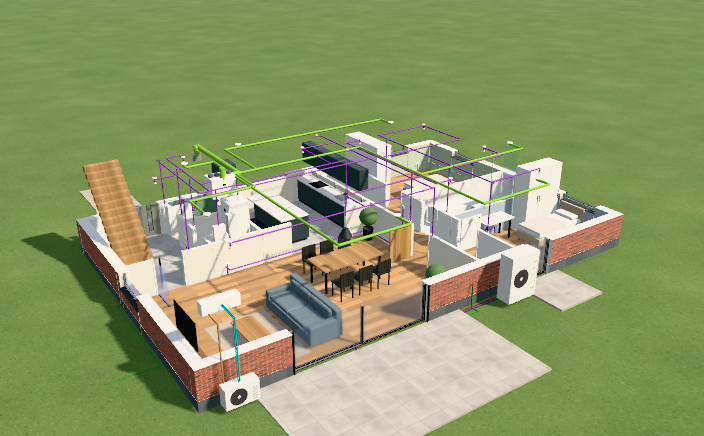
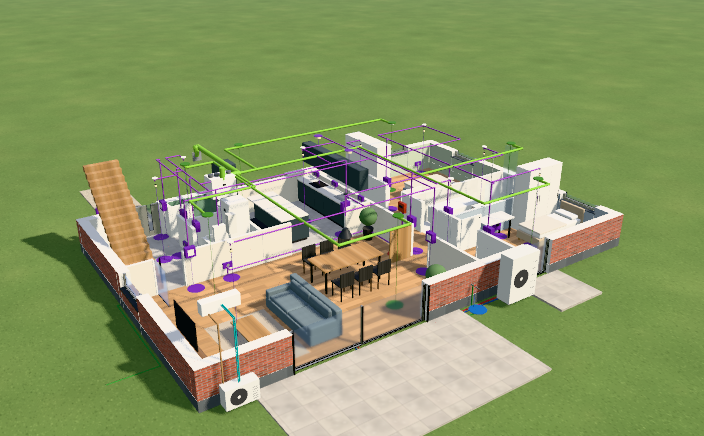
Bouw: techniek zichtbaar in de 3D, zoomen evenredig met de beweging
Opmerking van Jonas: toegevoegde techniek was niet zichtbaar in de 3D en het zoomen was te gevoelig.

Techniek in de 3D:
- Kleine toestellen worden 30 cm (was 20) en krijgen een merkteken: een schijf op de vloer
  en een dun staafje naar het toestel, in de kleur van hun vak. Een tik erop kiest het toestel.
- Uitgezet toont alleen de verdieping waarop je werkt, met een krap kader. Alle verdiepingen
  samen zweefden als losse kaders boven elkaar.
- In de woning toont vanzelf lage muren zonder dak. Van buiten zag je eerst niets.
- Met de techniek uit heet de knop Techniek (n), met het aantal toestellen en leidingen.

Zoomen: het wiel zoomt nu evenredig met de beweging (wielFactor), in de 3D en in de tekening.
Vroeger zoomde de 3D 10 % per gebeurtenis, waardoor een trackpad of knijpen wegschoot.
Knijpen op de trackpad in Safari (gesturechange) wordt nu opgevangen.

Beelden bouw-techniek en bouw-techniek-scherm-3d bewust vernieuwd.

Claude-Session: https://claude.ai/code/session_01PczewFp9M8BS44vqTSpk6u

diff --git a/packages/bouw-web/src/techniek-ui.ts b/packages/bouw-web/src/techniek-ui.ts
@@ -103,11 +103,20 @@ export function techniekTekenOpties(): { techniek?: TechniekVak[] } {
   return aan ? { techniek: ALLE_VAKKEN.filter((v) => zichtbaar.has(v)) } : {};
 }
 
-/** Opties voor `plattegrond3D`: de installaties, gewoon of uitgezet (alleen als de techniek aan staat). */
-export function techniek3DOpties(niveau: number | undefined): { techniek?: { vakken: TechniekVak[]; weergave: 'gewoon' | 'uitgezet'; niveau?: number } } {
+/**
+ * Opties voor `plattegrond3D`: de installaties, gewoon of uitgezet (alleen als de techniek aan staat). 16/11: uitgezet
+ * altijd alleen de verdieping waarop je werkt (alle verdiepingen samen zweefden als losse kaders boven elkaar), en in
+ * beide weergaven de kleine toestellen groter en met een merkteken op de vloer (`opvallend`): anders was een
+ * stopcontact op een hele verdieping een stipje. In de woning toont de 3D dan ook lage muren zonder dak (zie
+ * `techniekInWoning`).
+ */
+export function techniek3DOpties(niveau: number): { techniek?: { vakken: TechniekVak[]; weergave: 'gewoon' | 'uitgezet'; niveau?: number; opvallend: boolean } } {
   if (!aan) return {};
-  return { techniek: { vakken: ALLE_VAKKEN.filter((v) => zichtbaar.has(v)), weergave: uitgezet ? 'uitgezet' : 'gewoon', ...(uitgezet && niveau !== undefined ? { niveau } : {}) } };
+  return { techniek: { vakken: ALLE_VAKKEN.filter((v) => zichtbaar.has(v)), weergave: uitgezet ? 'uitgezet' : 'gewoon', opvallend: true, ...(uitgezet ? { niveau } : {}) } };
 }
+
+/** De techniek in de woning (niet uitgezet): de 3D toont dan de verdieping waarop je werkt met lage muren en zonder dak. */
+export const techniekInWoning = () => aan && !uitgezet;
 
 // ---------- hulpjes ----------
 
@@ -798,6 +807,9 @@ export function toonBalk3D() {
   if (tab3D) {
     tab3D.hidden = !aan && !heeftTechniek();
     tab3D.setAttribute('aria-pressed', String(aan));
+    // Met de techniek uit: hoeveel er is, zodat je ziet dat er iets te zien is (in Afgewerkt staat de techniek niet).
+    const plan = toestand().plan, n = (plan.toestellen?.length ?? 0) + (plan.leidingen?.length ?? 0);
+    tab3D.textContent = !aan && n ? `Techniek (${n})` : 'Techniek';
     // Afgewerkt en Constructie: niet ingedrukt terwijl de techniek aan staat; daarna weer zoals de constructie staat.
     const nu = aan ? 'techniek' : constructieAan() ? 'constructie' : 'afgewerkt';
     for (const b of document.querySelectorAll<HTMLButtonElement>('[data-3d-weergave]')) b.setAttribute('aria-pressed', String(b.dataset['3dWeergave'] === nu));
@@ -808,7 +820,7 @@ export function toonBalk3D() {
   balk3D.hidden = !aan;
   if (!aan) return;
   const weergave = el('div', { class: 'tabs', role: 'group', 'aria-label': 'Techniek in de 3D' });
-  for (const [w, label, uitleg] of [['woning', 'In de woning', 'De woning zoals ze is, met de installaties op hun plaats (in de muren en vloeren verstopt; zet Muren laag aan om binnen te kijken)'], ['uitgezet', 'Uitgezet', 'De woning als lage wanden en lijnen, zodat je de installaties ziet']] as const) {
+  for (const [w, label, uitleg] of [['woning', 'In de woning', 'De verdieping waarop je werkt, met lage muren en zonder dak, en de installaties op hun plaats (een leiding in de muur of de vloer zit erin verstopt)'], ['uitgezet', 'Uitgezet', 'De woning als lage wanden en lijnen, zodat je de installaties ziet']] as const) {
     const b = el('button', { type: 'button', 'data-techniek-3d': w, 'aria-pressed': String((w === 'uitgezet') === uitgezet), title: uitleg }, label);
     b.addEventListener('click', () => { uitgezet = w === 'uitgezet'; toonBalk3D(); omg?.drieD(); });
     weergave.append(b);

diff --git a/packages/bouw-web/src/plattegrond-ui.ts b/packages/bouw-web/src/plattegrond-ui.ts
@@ -76,7 +76,7 @@ import { gevelCatalogus } from '../../core/voorbeelden/inrichting.js';
 import { constructieAan, constructieScene, opbouwKeuze, startConstructie, toonOpbouwVanDing } from './constructie-ui.js';
 import { startDoorsnede, toonDoorsnede } from './doorsnede-ui.js';
 import {
-  draaiToestel, maakZichtbaar, startTechniek, techniek3DOpties, techniekAan, techniekHint, techniekMetRuimte, techniekNaTekenen, techniekPlan, techniekPointerDown,
+  draaiToestel, maakZichtbaar, startTechniek, techniek3DOpties, techniekAan, techniekHint, techniekInWoning, techniekMetRuimte, techniekNaTekenen, techniekPlan, techniekPointerDown,
   techniekPointerMove, techniekPointerUp, techniekSelecteren, techniekTekenOpties, techniekUitgezet, techniekVoorbeeld, toonBalk3D, toonTechniekEigenschappen,
   toonTechniekZonderKeuze, verschuifToestel, verwijderTechniek, zetTechniek, type TechniekSelectie,
 } from './techniek-ui.js';
@@ -403,20 +403,23 @@ function plan3D() {
     wachtend3D = false;
     // Lichtinval: de zon uit de gekozen richting, en wat verborgen is werpt nog schaduw.
     viewer?.zon?.(zonVoorKijker());
+    // Techniek in de woning: de verdieping waarop je werkt met lage muren en zonder dak, anders zie je niets (16/11).
+    const tw = techniekInWoning(), muurLaag = laag || tw;
     const scene = plattegrond3D(toestand().plan, cat, {
-      laag: laag ? 110 : undefined,
+      laag: muurLaag ? 110 : undefined,
       meubels: toonMeubels,
-      dak: toonDakIn3D,
+      dak: toonDakIn3D && !tw,
       lichtinval: lichtinvalAan(),
       // Terras en pad horen bij de woning (gegevens); lucht, gras en horizon tekent de kijker (omgeving 'buiten').
       aanleg: true,
       gevelkoppen: true,
       // Elk blok zegt bij welk ding het hoort: tik op het dak, een raam of een gevel (zie ding-ui.ts).
       dingen: true,
-      totNiveau: alleNiveaus && !laag ? undefined : niveau,
+      totNiveau: alleNiveaus && !muurLaag ? undefined : niveau,
       inhoud: openingInhoud,
-      // Techniek (ronde 10b): de installaties, in de woning of uitgezet (alleen als de techniek aan staat).
-      ...techniek3DOpties(alleNiveaus && !laag ? undefined : niveau),
+      // Techniek (ronde 10b): de installaties, in de woning of uitgezet (alleen als de techniek aan staat); uitgezet
+      // alleen de verdieping waarop je werkt.
+      ...techniek3DOpties(niveau),
     });
     // Constructie (ronde 6): wanden, vloeren en dak als skelet, met het kader van de afgewerkte woning (de camera springt niet).
     const constructie = constructieAan();
@@ -428,7 +431,8 @@ function plan3D() {
       maatlijnen: [...gebouwMaatlijnen(scene, { hoogtes: !laag }), ...(!constructie && gekozenDing?.startsWith('opening:') ? raamMaatlijnen(scene.blokken, { ding: gekozenDing }) : [])],
     } : getoond;
     // Na de snelstart een ruimer kader: de camera staat verder, zodat de hele woning met lucht erboven in beeld komt.
-    viewer?.toon(ruimKader ? ruimKaderVan(metMaten) : metMaten);
+    // Met de techniek aan het krappe kader: de toestellen zo groot mogelijk in beeld.
+    viewer?.toon(ruimKader && !techniekAan() ? ruimKaderVan(metMaten) : metMaten);
     // Het beeld in het overzicht (Het ontwerp) is dat van de afgewerkte woning, niet van het skelet.
     beeldActueel = !!viewer && !constructie && !techniekAan();
     if (volgendStandpunt) { viewer?.standpunt(volgendStandpunt); volgendStandpunt = undefined; }

diff --git a/packages/core/src/techniek.ts b/packages/core/src/techniek.ts
@@ -197,6 +197,11 @@ export interface TechniekWeergave {
   weergave?: 'gewoon' | 'uitgezet';
   /** Alleen deze verdieping (uitgezet): de andere verdiepingen vallen weg. */
   niveau?: number;
+  /**
+   * Kleine toestellen groter, in de kleur van hun vak en met een merkteken op de vloer (zie `toestelBlokken`). Standaard
+   * alleen in de uitgezette weergave; het scherm zet het ook aan in de woning (16/11: anders zie je geen stopcontact).
+   */
+  opvallend?: boolean;
 }
 
 // ---------- maten en hoogtes ----------
@@ -602,8 +607,18 @@ function zetOp(blokken: Blok[], graden: number, x: number, y: number, z: number)
   });
 }
 
-/** In de uitgezette weergave is een klein toestel (stopcontact, schakelaar, lichtpunt) minstens zo groot (cm), in de kleur van zijn vak. */
-export const KLEIN_TOESTEL = 20;
+/**
+ * In de uitgezette weergave is een klein toestel (stopcontact, schakelaar, lichtpunt) minstens zo groot (cm), in de kleur
+ * van zijn vak. 16/11: van 20 naar 30 cm; met 20 cm was een stopcontact op een hele verdieping een stipje.
+ */
+export const KLEIN_TOESTEL = 30;
+
+/**
+ * Het merkteken onder een klein toestel in de uitgezette weergave (cm): een schijf op de vloer in de kleur van zijn vak,
+ * met een dun staafje naar het toestel als dat hoger hangt. Zo vind je een stopcontact of een lichtpunt op een hele
+ * verdieping, ook van ver en van boven; een tik op het merkteken kiest het toestel.
+ */
+export const MERKTEKEN = { schijf: 50, dik: 1.2, staaf: 1.4, vanaf: 20 };
 
 /**
  * Een toestel als blokken in de wereld; `vloer` = hoogte van de vloer van zijn verdieping boven het maaiveld (cm). Met
@@ -621,7 +636,18 @@ export function toestelBlokken(t: Toestel, type: ToestelType, vloer: number, muu
   const [vx, vy] = voorRichting(t.draai), naarVoor = (m.d - echt.d) / 2;
   const groei = t.aan === 'plafond' ? echt.h - m.h : t.aan === 'vloer' || t.aan === 'buiten' ? 0 : (echt.h - m.h) / 2;
   const onder = (t.aan === 'dak' ? muurhoogte + t.hoogte : t.hoogte) + groei;
-  return zetOp(lokaal, t.draai, t.x + vx * naarVoor, vloer + onder, t.y + vy * naarVoor);
+  const blokken = zetOp(lokaal, t.draai, t.x + vx * naarVoor, vloer + onder, t.y + vy * naarVoor);
+  // Het merkteken (zie MERKTEKEN): alleen bij een vergroot toestel, niet op het dak. Een toestel aan de wand: de schijf
+  // ligt voor de wand, het staafje staat onder het midden van het toestel.
+  if (f > 1 && t.aan !== 'dak') {
+    const M = MERKTEKEN, kleurMerk = TECHNIEK_VAKKEN[type.vak].kleur;
+    const wand = t.aan === 'wand' ? M.schijf / 2 : 0;
+    const sx = t.x + vx * wand, sz = t.y + vy * wand, mx = t.x + vx * naarVoor, mz = t.y + vy * naarVoor;
+    blokken.push({ code: `${code}_merk_schijf`, soort: 'kunststof', vorm: 'cilinder', kleur: kleurMerk, x: fijn(sx - M.schijf / 2), y: r2(vloer + 1), z: fijn(sz - M.schijf / 2), b: M.schijf, h: M.dik, d: M.schijf });
+    const hoog = onder - 1 - M.dik;
+    if (hoog > M.vanaf) blokken.push({ code: `${code}_merk_staaf`, soort: 'kunststof', vorm: 'cilinder', kleur: kleurMerk, x: fijn(mx - M.staaf / 2), y: r2(vloer + 1 + M.dik), z: fijn(mz - M.staaf / 2), b: M.staaf, h: r2(hoog), d: M.staaf });
+  }
+  return blokken;
 }
 
 export interface TechniekBlokOpties extends VerloopOpties {

diff --git a/packages/core/test/techniek.test.ts b/packages/core/test/techniek.test.ts
@@ -2,7 +2,7 @@ import { describe, expect, it } from 'vitest';
 import {
   ALLE_VAKKEN, asVan, binnenVeelhoek, controleerPlan, leidingBlokken, leidingVerloop, maatTekst, maatVan, murenVan, niveauPlan, nieuwToestel, opAs, plattegrond3D, ruimteOp,
   telTechniek, tekenPlattegrond, toestelBlokken, toestelMaten, toestelVoetafdruk, toestelVorm, vloerHoogte, voorRichting, vormVanDeel,
-  zetOmtrek, TECHNIEK_VOORBEHOUD, type Blok, type Leiding, type Plattegrond, type Ruimte, type Toestel,
+  zetOmtrek, KLEIN_TOESTEL, MERKTEKEN, TECHNIEK_VOORBEHOUD, type Blok, type Leiding, type Plattegrond, type Ruimte, type Toestel,
 } from '../src/index.js';
 import { leidingLangsWanden, technischeOpstelling, tegenWand, vloerverwarmingLus } from '../src/techniekplaatsen.js';
 import { planCatalogus } from '../voorbeelden/inrichting.js';
@@ -324,15 +324,29 @@ describe('3D: toestellen en leidingen, per vak, gewoon en uitgezet', () => {
   });
   it('kleine toestellen zijn in de uitgezette weergave groter en in de kleur van hun vak; de achterkant blijft tegen de wand', () => {
     const s = plan.toestellen!.find((x) => x.type === 'stopcontact_dubbel')!, ty = tc.toestellen[s.type]!;
-    const gewoon = toestelBlokken(s, ty, 0, 270, 'x'), groot = toestelBlokken(s, ty, 0, 270, 'x', true);
+    const gewoon = toestelBlokken(s, ty, 0, 270, 'x'), alles = toestelBlokken(s, ty, 0, 270, 'x', true);
+    // Het toestel zelf (zonder het merkteken op de vloer).
+    const groot = alles.filter((b) => !b.code.includes('_merk_'));
     const breedte = (b: Blok[]) => Math.max(...b.map((x) => Math.max(x.b, x.d)));
     expect(breedte(gewoon)).toBe(15);
-    expect(breedte(groot)).toBeCloseTo(20, 1);
+    expect(breedte(groot)).toBeCloseTo(KLEIN_TOESTEL, 1);
+    expect(KLEIN_TOESTEL).toBe(30);
     expect(groot[0]!.kleur).toBe('#6a2fa0');
     // De achterkant (de plaat) raakt nog altijd het muurvlak.
     const [vx, vy] = voorRichting(s.draai);
     const achter = (b: Blok[]) => Math.min(...b.map((x) => (x.x + x.b / 2 - s.x) * vx + (x.z + x.d / 2 - s.y) * vy - (Math.abs(vx) > 0.5 ? x.b : x.d) / 2));
     expect(achter(groot)).toBeCloseTo(achter(gewoon), 1);
+    // Het merkteken (16/11): een schijf op de vloer voor de wand, en een staafje tot onder het toestel, in de kleur van het vak.
+    const schijf = alles.find((b) => b.code === 'x_merk_schijf')!, staaf = alles.find((b) => b.code === 'x_merk_staaf')!;
+    expect(schijf.vorm).toBe('cilinder');
+    expect(schijf.b).toBe(MERKTEKEN.schijf);
+    expect(schijf.y).toBe(1);
+    expect(schijf.kleur).toBe('#6a2fa0');
+    const midden = (b: Blok) => (b.x + b.b / 2 - s.x) * vx + (b.z + b.d / 2 - s.y) * vy;
+    expect(midden(schijf)).toBeCloseTo(MERKTEKEN.schijf / 2, 1);
+    expect(staaf.y + staaf.h).toBeCloseTo(Math.min(...groot.map((b) => b.y)), 1);
+    // Zonder vergroting geen merkteken.
+    expect(gewoon.some((b) => b.code.includes('_merk_'))).toBe(false);
   });
   it('aantikken: elk blok van de techniek zegt bij welk toestel of welke leiding het hoort', () => {
     const s = plattegrond3D(plan, cat, { techniek: {}, dingen: true });

diff --git a/packages/demo-web/src/zoom.ts b/packages/demo-web/src/zoom.ts
@@ -32,6 +32,22 @@ export interface ZoomOpties {
   wielZoomt?: () => boolean;
 }
 
+/**
+ * Hoeveel één wielgebeurtenis zoomt (> 1 = inzoomen), evenredig met de beweging. Een muiswiel geeft per klik een grote
+ * stap (±100 px), een trackpad tientallen kleine per seconde, en knijpen op een trackpad komt binnen als wiel met Ctrl en
+ * kleine stappen: met een vaste stap per gebeurtenis (vroeger 10 % in de 3D) schiet het beeld dan weg. Eén klik van het
+ * wiel zoomt ±14 %, knijpen volgt de vingers, en geen enkele gebeurtenis zoomt meer dan ±25 %. Gedeeld door de tekening
+ * (Zoom) en de 3D (drie-d.ts).
+ */
+export function wielFactor(e: Pick<WheelEvent, 'deltaY' | 'deltaMode' | 'ctrlKey'>): number {
+  // Regels of pagina's (Firefox, sommige muizen) naar pixels.
+  const px = e.deltaY * (e.deltaMode === 1 ? 33 : e.deltaMode === 2 ? 400 : 1);
+  // Knijpen: Ctrl met kleine stappen. Ctrl met een gewoon muiswiel (stappen van ±100) zoomt zoals het wiel zonder Ctrl.
+  const knijpen = e.ctrlKey && Math.abs(px) < 50;
+  const stap = knijpen ? 0.01 : 0.0015;
+  return Math.exp(-Math.max(-0.22, Math.min(0.22, px * stap)));
+}
+
 export class Zoom {
   private vak: Kader | undefined;
   private tijdelijk: Kader | undefined;
@@ -49,10 +65,22 @@ export class Zoom {
       e.preventDefault();
       // Horizontaal vegen op een trackpad verschuift; verticaal (of knijpen = ctrl) zoomt.
       if (Math.abs(e.deltaX) > Math.abs(e.deltaY) && !e.ctrlKey && !e.metaKey) { this.verschuifPx(-e.deltaX, 0); return; }
-      const stap = e.ctrlKey ? 0.01 : e.deltaMode === 1 ? 0.05 : e.deltaMode === 2 ? 0.5 : 0.0015;
-      const f = Math.min(2, Math.max(0.5, Math.exp(-e.deltaY * stap)));
-      this.zoomOp(f, e.clientX, e.clientY);
+      this.zoomOp(wielFactor(e), e.clientX, e.clientY);
     }, { passive: false });
+    // Safari op een Mac: knijpen op de trackpad komt als gebaar (gesturechange met `scale`), niet als wiel met Ctrl; zonder
+    // dit zoomt de hele pagina. Op een iPad loopt knijpen via de aanwijzers (this.knijp): dan niet dubbel zoomen.
+    let gebaarSchaal = 1;
+    const gebaar = (naam: string, f: (e: { scale?: number; clientX: number; clientY: number }) => void) => doel.addEventListener(naam, (ev) => {
+      ev.preventDefault();
+      if (!this.knijp) f(ev as unknown as { scale?: number; clientX: number; clientY: number });
+    });
+    gebaar('gesturestart', () => { gebaarSchaal = 1; });
+    gebaar('gesturechange', (e) => {
+      const s = e.scale ?? 1;
+      if (!(s > 0)) return;
+      this.zoomOp(s / gebaarSchaal, e.clientX, e.clientY);
+      gebaarSchaal = s;
+    });
     // Vangfase: knijpen en middelste muisknop gaan voor op de acties van de editor.
     doel.addEventListener('pointerdown', (ev) => {
       const e = ev as PointerEvent;

diff --git a/packages/demo-web/src/drie-d.ts b/packages/demo-web/src/drie-d.ts
@@ -7,7 +7,7 @@
 import type { Blok, Echt3DPlaatsing, Scene3D, Weefsel } from '../../core/src/index.js';
 import { smeltMee, zachteVorm, type ZachteVorm } from '../../core/src/zachtevorm.js';
 import { wandDoorsnede } from '../../core/src/kuip.js';
-import { wielHint } from './zoom.js';
+import { wielFactor, wielHint } from './zoom.js';
 import { HOOGTE_KLEUR, KAART_PX, WEEFSEL_CM, WEEFSELKAART, weefselCanvas, weefselKaarten } from './weefsel.js';
 import { bouwDecor, type DecorSpec } from './decor3d.js';
 
@@ -2865,9 +2865,26 @@ function maakViewer(houder: HTMLElement, opties: Opties3D, intern: { geenWebGPU:
       return;
     }
     ev.preventDefault();
-    afstand = Math.min(verst(), Math.max(120, afstand * (1 + Math.sign(ev.deltaY) * 0.1)));
+    // Evenredig met de beweging (zie wielFactor): een trackpad of knijpen geeft veel kleine stappen, een muiswiel één grote.
+    afstand = Math.min(verst(), Math.max(120, afstand / wielFactor(ev)));
     plaatsCamera();
   }, { passive: false });
+  // Safari op een Mac: knijpen op de trackpad komt als gebaar (gesturechange met `scale`), niet als wiel met Ctrl; zonder
+  // dit zoomt de hele pagina. Op een iPad komt knijpen ook als twee aanwijzers binnen (hierboven): dan niet dubbel zoomen.
+  let gebaarStart = 0;
+  const gebaar = (naam: string, f: (schaal: number) => void) => renderer.domElement.addEventListener(naam, (ev: Event) => {
+    ev.preventDefault();
+    if (bezigMetFoto || aanwijzers.size > 1) return;
+    f((ev as unknown as { scale?: number }).scale ?? 1);
+  });
+  gebaar('gesturestart', () => { gebaarStart = afstand; });
+  gebaar('gesturechange', (schaal) => {
+    if (!gebaarStart || !(schaal > 0)) return;
+    afstand = Math.min(verst(), Math.max(120, gebaarStart / schaal));
+    pauzeerDraaien();
+    plaatsCamera();
+  });
+  gebaar('gestureend', () => { gebaarStart = 0; });
 
   // Nabewerking (kwaliteit Mooi): ambient occlusion (GTAO) voor schaduw in hoeken, naden en onder kussens.
   // WebGPU (04-11): een RenderPipeline met TSL-knopen (pass met normalen, GTAO op halve resolutie, ontruisd), zelfde

diff --git a/packages/core/src/plattegrond.ts b/packages/core/src/plattegrond.ts
@@ -2133,7 +2133,7 @@ function techniek3D(plan: Plattegrond, cat: PlanCatalogus, opties: Plan3DOpties)
   return techniekBlokken(plan, cat.techniek, {
     vakken: opties.techniek.vakken, niveau: opties.techniek.niveau, totNiveau: opties.totNiveau, dingen: opties.dingen,
     vloerHoogte: (n) => vloerHoogte(plan, n),
-    vloerBoven: opties.techniek.weergave === 'uitgezet', opvallend: opties.techniek.weergave === 'uitgezet',
+    vloerBoven: opties.techniek.weergave === 'uitgezet', opvallend: opties.techniek.opvallend ?? opties.techniek.weergave === 'uitgezet',
   });
 }
 

diff --git a/.claude/skills/bouw-woning/SKILL.md b/.claude/skills/bouw-woning/SKILL.md
@@ -441,7 +441,7 @@ Vraag van Jonas: *"alles wat een installateur kan nodig hebben, airco, leidingen
 - **Eén verloop voor alles** (`leidingVerloop`): de punten op hun hoogte plus een stuk op of neer naar de aansluiting (midden) van het toestel aan elk einde, ook naar een andere verdieping. De 3D, de stijgpunten in de tekening, de telling en de controle op de lengte lezen dit. Lengte = op het plan + op en neer.
 - **3D** (`Plan3DOpties.techniek`: `{ vakken?, weergave?: 'gewoon' | 'uitgezet', niveau? }`, vraagt `cat.techniek`; zonder optie de blokken van vroeger):
   - *gewoon*: de woning zoals altijd met de toestellen en leidingen op hun plaats (in de vloer en de wand dus echt verstopt; met "Muren laag" zie je ze binnen). Na het kader toegevoegd: de camera verandert niet. Codes `toestel_<id>_…`, `leiding_<id>_<n>`; met `dingen` `toestel:<id>.` en `leiding:<id>.`.
-  - *uitgezet* (`uitgezet3D` in `plattegrond.ts`): vloeren alleen op de onderste getoonde verdieping, muren als lage wand van 12 cm zonder de deuropeningen, de buitenmuren ook als lijn van 2 cm op plafondhoogte; geen dak, vloerplaten, ramen, meubels, aanleg; effen lichte kleuren. Leidingen in een vloer liggen er zichtbaar op; kleine toestellen (< 20 cm) worden 20 cm groot in de kleur van hun vak (`KLEIN_TOESTEL`, de achterkant blijft tegen de wand). Met `niveau` één verdieping; leidingen naar een verdieping die niet getoond wordt, stoppen in de vloer ertussen.
+  - *uitgezet* (`uitgezet3D` in `plattegrond.ts`): vloeren alleen op de onderste getoonde verdieping, muren als lage wand van 12 cm zonder de deuropeningen, de buitenmuren ook als lijn van 2 cm op plafondhoogte; geen dak, vloerplaten, ramen, meubels, aanleg; effen lichte kleuren. Leidingen in een vloer liggen er zichtbaar op; kleine toestellen (< 30 cm) worden 30 cm groot in de kleur van hun vak (`KLEIN_TOESTEL`, de achterkant blijft tegen de wand), met een merkteken: een schijf van 50 cm op de vloer (voor de wand bij een wandtoestel) en een dun staafje tot onder het toestel (`MERKTEKEN`, codes `…_merk_schijf` en `…_merk_staaf`, een tik kiest het toestel). Dat heet `opvallend`: standaard alleen uitgezet, met `techniek.opvallend: true` ook in de gewone weergave (16/11: met 20 cm en zonder merkteken was een stopcontact op een hele woning een stipje). Met `niveau` één verdieping; leidingen naar een verdieping die niet getoond wordt, stoppen in de vloer ertussen.
   - Leidingen: cilinders (horizontaal langs x of z, schuin met `draai`, staand), bollen in de knikken, een paar = twee buizen naast elkaar, plat = balken. **Minstens 4 cm dik** (`LEIDING_MIN_DIK`), anders zie je een kabel van 16 mm niet. Geen nieuwe vormen of soorten: een kijker van versie 4 tekent het (het pakket blijft op versie 4).
   - Wat de kijker zou moeten kunnen voor *echt* doorschijnend: een veld op een blok (bv. `doorzicht: 0.2`) met een eigen materiaal (doorzichtig, `depthWrite` uit, achteraan getekend, geen schaduw), en lijnen voor de randen van de muren (`EdgesGeometry`).
 - **Tekening** (`tekenPlattegrond(…, { techniek: true | ['elektriciteit', …] })`): per leiding een lijn in de kleur van de soort (zo dik als de leiding, minstens 2,5 cm; in de vloer gestreept en lichter, tegen het plafond streep-punt), een rondje waar ze naar een andere verdieping gaat; per toestel een teken in de kleur van zijn vak (`toestelTeken`). Elektriciteit zo dicht mogelijk bij de gewoonte (**te bevestigen naast de lijst van Volta**): lichtpunt = kruisje, armatuur = cirkel met kruis, stopcontact = halve cirkel met de bolle kant naar de muur, streepje naar de muur en dwarsstreep (aarding), cijfer = aantal; schakelaar = rondje met schuin streepje en haakje; verdeelbord = rechthoek half gevuld. De rest: kader of cirkel op ware grootte met een afkorting (kWh, AC, WP, B, VV, D, COL, RW, LP …), radiator met ribben, mond met een pijl (toevoer naar binnen, afvoer naar buiten), rooster, doorvoer. `data-soort="toestel"`/`"leiding"` en `selectie.soort` `toestel`/`leiding` voor de editor. Met techniek omvat het kader ook wat buiten staat (`planKaderMetTechniek`).
@@ -459,7 +459,7 @@ Vraag van Jonas: *"alles wat een installateur kan nodig hebben, airco, leidingen
   - **Technische ruimte**: tik op de ruimte → `technischeOpstelling` met `TECHNISCHE_RUIMTE` zonder wat al in het plan staat (geen tweede tellerkast). De volgorde beslist wat past (in de berging van de voorbeeldwoning passen alle zeven in maar 12 van de 5040 volgordes): eerst de gewone, dan een zoektocht toestel per toestel met de ondiepe eerst en een begin dat al niet past weg (`besteOpstelling`, hoogstens 0,5 s; in de berging ± 0,1 s). Wat niet past, staat in de melding. Met de collector staat er sanitair in het plan: de melding zegt dat de controles dan ook de natte ruimtes zonder afvoer melden.
   - **Vloerverwarming**: tik op de ruimte → zoveel lussen (`vloerverwarmingLus` met `strook`) dat elke lus met aan- en afvoer onder de grootste lengte van de soort blijft (120 m − 5), aangesloten op de dichtste verdeler van die verdieping (`van`/`naar`); zonder verdeler een lus zonder aansluiting en een melding. Een tweede tik op dezelfde ruimte legt ze opnieuw (ids `vv_<ruimte>_…`). Leefruimte van de voorbeeldwoning: drie lussen van ± 90 m.
   - **Mee met een ruimte** (`techniekMetRuimte`, in het slepen van een ruimte, ook met de techniek uit): toestellen waarvan het midden in de ruimte ligt, en wat buiten staat tot 1,5 m van haar kader (buitenunit, gevelrooster); van de leidingen de punten erin of ernaast buiten. Een toestel dat daarna niet meer tegen een wand hangt, geeft de bestaande melding. *Verdieping verwijderen* en *Plattegrond wissen* nemen de techniek mee weg.
-  - **3D**: met *Techniek* de installaties (`techniek3DOpties`): *Uitgezet* (standaard; met *Alle verdiepingen* uit alleen die verdieping) of *In de woning* (met *Muren laag* zie je ze binnen), de vakken aan of uit, het voorbehoud. Geen maten in de uitgezette weergave; *Het ontwerp* in het overzicht neemt geen beeld met techniek. Een tik op een toestel of leiding (`toestel:<id>`, `leiding:<id>`, `isDing` in `ding-ui.ts`) geeft het keuzepaneel (`techniekDingKeuzes`): hoogte ± 10 cm of de ligging, *In de plattegrond*, *Verwijderen*.
+  - **3D**: met *Techniek* de installaties (`techniek3DOpties`): *Uitgezet* (standaard; sinds 16/11 altijd alleen de verdieping waarop je werkt, met het krappe kader) of *In de woning* (sinds 16/11 vanzelf de verdieping waarop je werkt met lage muren en zonder dak, `techniekInWoning`; vroeger zag je van buiten niets), in beide weergaven `opvallend`; met de techniek uit heet de knop *Techniek (n)* met het aantal toestellen en leidingen, de vakken aan of uit, het voorbehoud. Geen maten in de uitgezette weergave; *Het ontwerp* in het overzicht neemt geen beeld met techniek. Een tik op een toestel of leiding (`toestel:<id>`, `leiding:<id>`, `isDing` in `ding-ui.ts`) geeft het keuzepaneel (`techniekDingKeuzes`): hoogte ± 10 cm of de ligging, *In de plattegrond*, *Verwijderen*.
   - **Meldingen** van een tik (kan niet, past niet, getrokken, geplaatst) staan bij de eigenschappen en, onder 1200 px breed (de tablet, waar de eigenschappen onder de tekening staan), ook vlak onder de tekening (`#pl-techniek-melding`, weg bij de volgende tik).
   - **Controles**: bij de gewone controles (een melding over een toestel of leiding aantikken zet de techniek aan, toont zijn vak en kiest het); een fout kleurt het teken rood.
   - **Overzicht**: kaart *Techniek* (`#o-techniek`, `toonTechniekOverzicht()` in `toonOfferte`, alleen als het plan techniek heeft) met het aantal toestellen en leidingen en het voorbehoud zichtbaar; *Telling per vak* (`#o-techniek-telling`) klapt open en rekent pas dan (`telTechniek`), *Kopieer de telling* (`#o-techniek-kopieer`, tabs: plakt als tabel in Excel, met het voorbehoud bovenaan).

diff --git a/.claude/skills/zetel-3d/SKILL.md b/.claude/skills/zetel-3d/SKILL.md
@@ -65,7 +65,7 @@ Lees opties via `gekozenOpties(ontwerp, catalogus, e)` en `te(groep, veld, stand
 - Vooraanzicht is tekenbaar: element klikken/zijwaarts slepen; grepen voor breedte (rij schuift mee, rugleuning over volle breedte groeit mee), rug-/arm-/zithoogte (bovenkant) en poothoogte (onderkant); nieuw element tekenen (breedte = kader, hoogte = rug-/armhoogte); opzet komt op het element met de meeste overlap, vóór een eigen rug of losse rugleuning (`voorkantRug`).
 
 ## Zoomen in boven- en vooraanzicht
-- `zoom.ts` (klasse `Zoom`): muiswiel, knijpen, verschuiven (leeg stuk of middelste muisknop), knoppen −, +, Passend en Selectie, sneltoetsen + − 0.
+- `zoom.ts` (klasse `Zoom`): muiswiel, knijpen, verschuiven (leeg stuk of middelste muisknop), knoppen −, +, Passend en Selectie, sneltoetsen + − 0. Het wiel zoomt evenredig met de beweging (`wielFactor`, ook gebruikt door de 3D in `drie-d.ts`: één klik ±14 %, een trackpad en knijpen in kleine stappen, nooit meer dan ±25 % per gebeurtenis; vroeger zoomde de 3D 10 % per gebeurtenis en schoot een trackpad weg). Knijpen op de trackpad in Safari (Mac) komt als `gesturechange` en wordt in beide opgevangen, niet dubbel met knijpen via de aanwijzers op een iPad.
 - `passendBoven()` en `passendVoor()` geven het automatische beeld; `tekenCanvas` en `tekenVoorvlak` tekenen met `zoom.kijkvak()`.
 
 ## Weergave (drie-d.ts)
